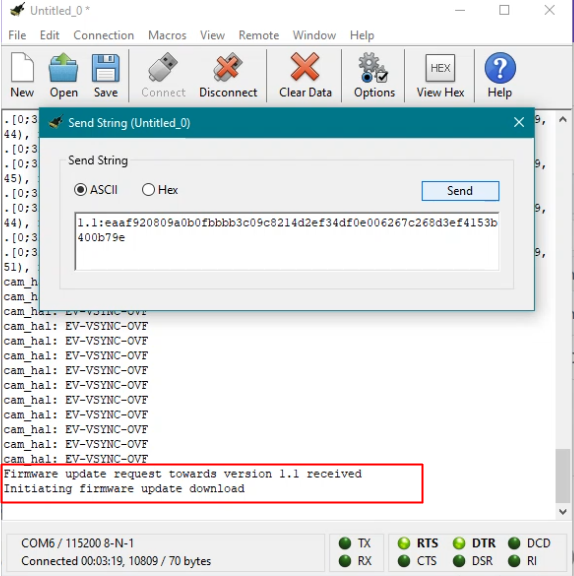
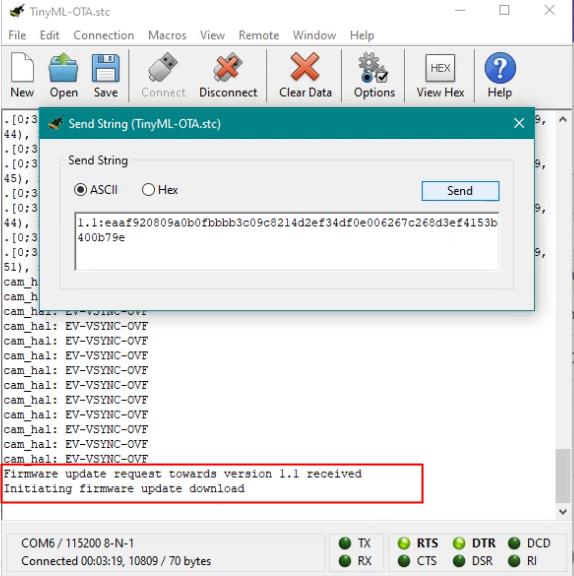
Enhanced Screenshots

Changed region(s): [[0.0889, 0.1875, 0.9181, 0.25], [0.0, 0.0, 0.2073, 0.0312]]

diff --git a/docs/getting-started/tinyml.md b/docs/getting-started/tinyml.md
@@ -126,7 +126,8 @@ If not yet done so, either clone or download and uncompress the [FotaHub Device 
 
     Great! Your are ready to go for a quick test now. Open your browser and google some cat faces. Point the camera of your board to one of them and observe them being detected in the serial monitor output in the form of coordinates.
 
-    ![CoolTerm](tinyml-2.png)
+    ![Detected-cat-faces](E10.png)
+
 
 ### Create and upload a new TinyML model version to FotaHub
 
@@ -177,4 +178,5 @@ Enter the new model version (1.1 for instance) followed by a ':' separator, foll
 
 Once the update is terminated successfully ,point your Esp Eye to your face and observe your face's coordinates getting print on the screen.
 
-![CoolTerm](E8.PNG)
+![Detected-human-faces](E9.PNG)
+
